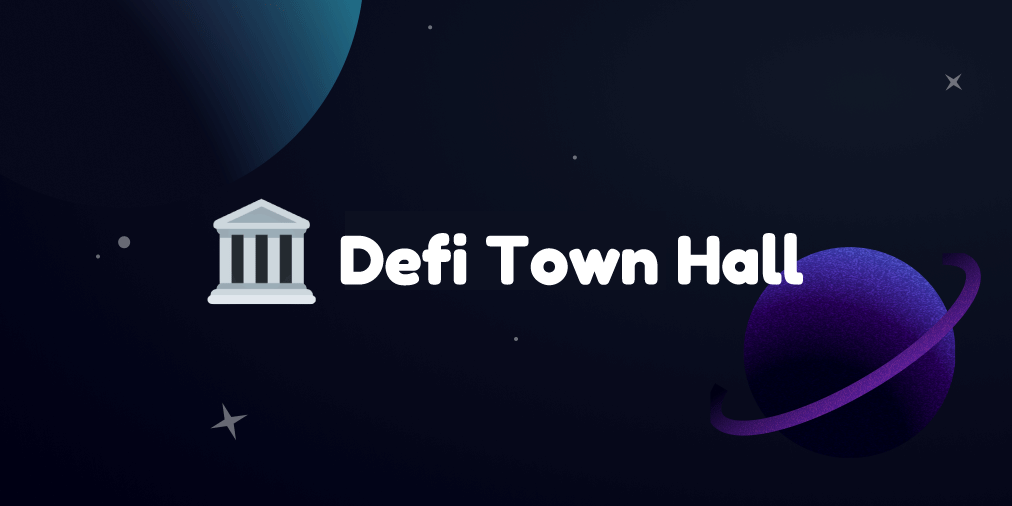
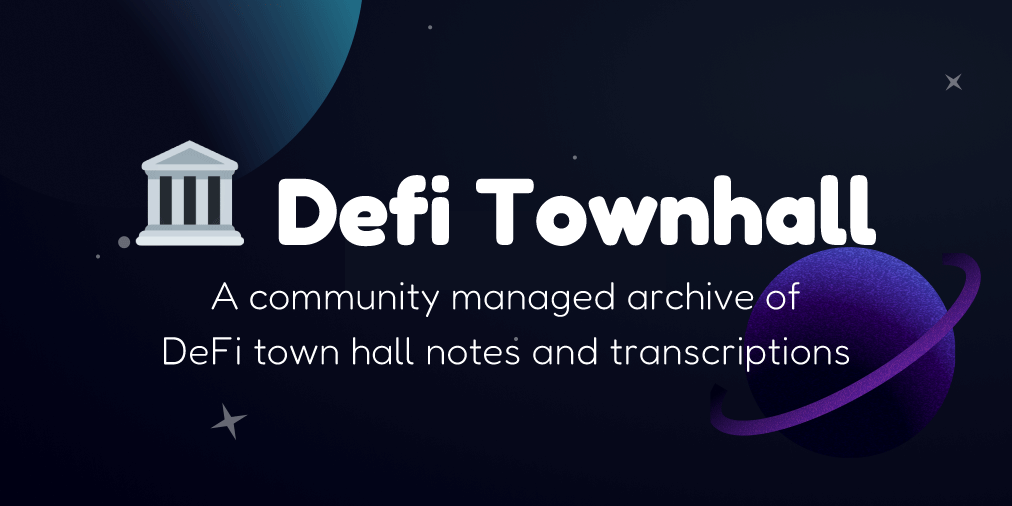
updated name

Changed region(s): [[0.1225, 0.2668, 0.8883, 0.6225], [0.1532, 0.6522, 0.8577, 0.7411]]

diff --git a/README.md b/README.md
@@ -1,3 +1,3 @@
-# 🏛 Defi Town Hall
+# 🏛 Defi Townhall
 
 A community managed archive of town hall meeting notes and transcriptions from across the DeFi universe.
